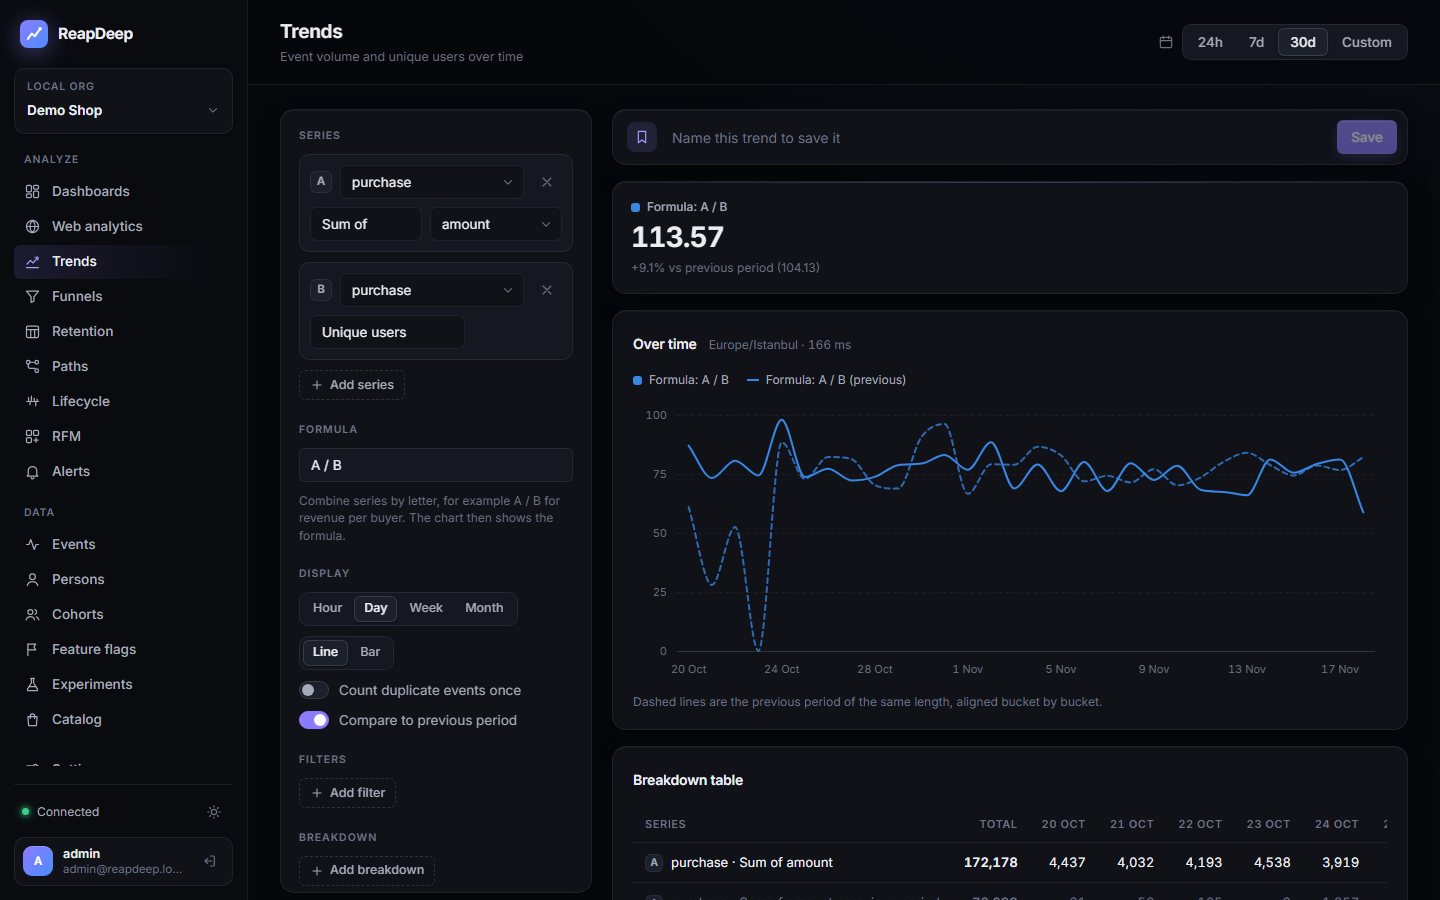
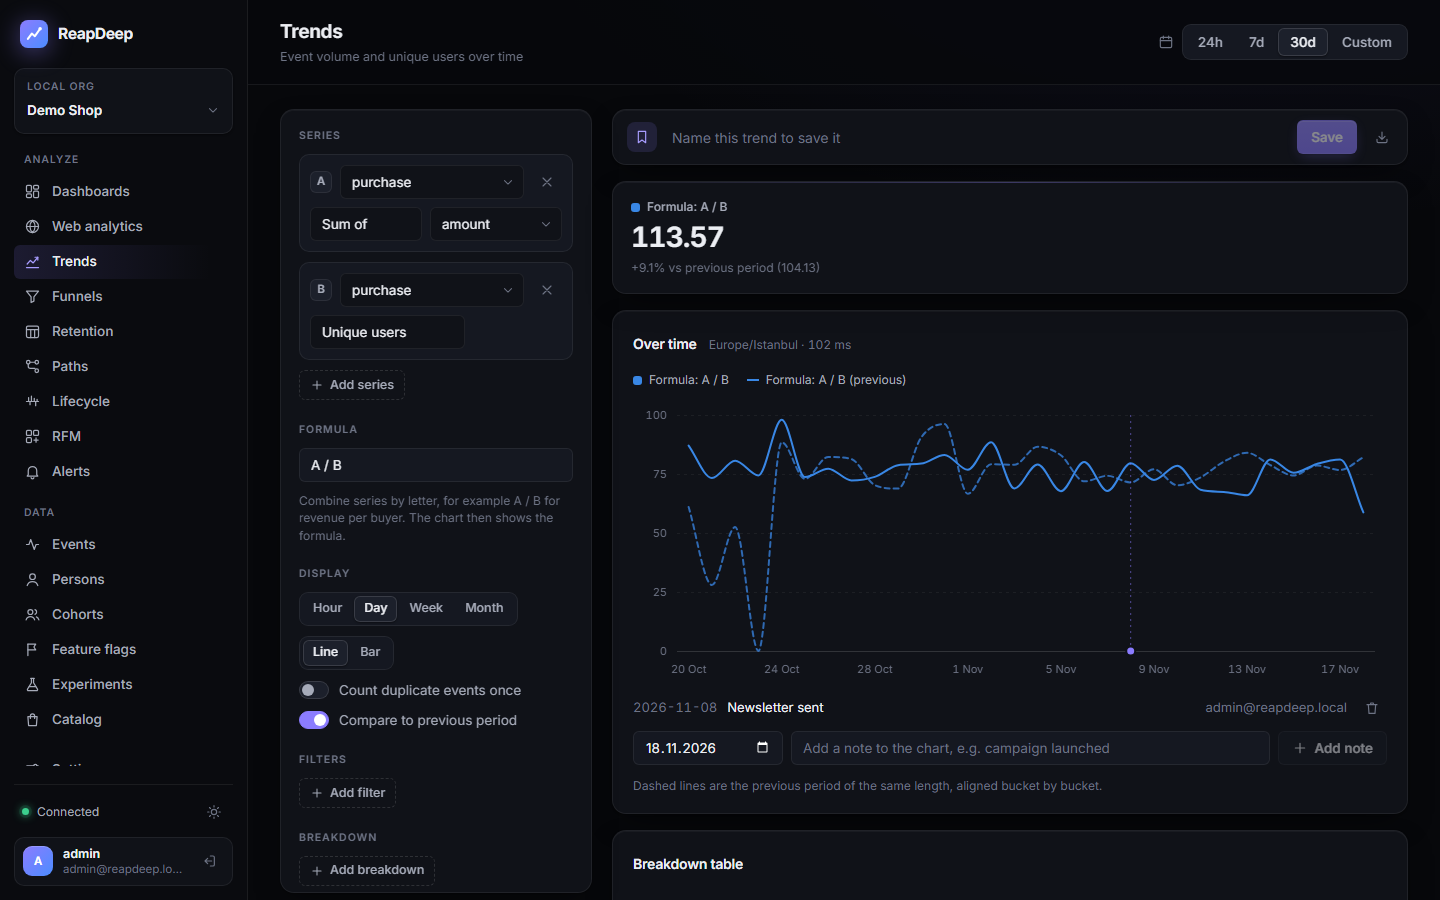
Refresh the trends screenshot and seed a demo chart note and action

diff --git a/README.md b/README.md
@@ -188,7 +188,7 @@ The Web analytics page (`POST /api/v1/query/web`) is built from `$pageview` even
 
 ### Trend metrics and formulas
 
-![Revenue per buyer with the previous period](docs/images/trends.png)
+![Revenue per buyer with the previous period and a chart note on the day a newsletter was sent](docs/images/trends.png)
 
 A trend series counts events, counts unique persons, or aggregates a numeric event property (sum, average, median, 90th percentile, minimum, maximum), for example the daily sum of `amount` on `purchase`. Series are named A, B, C... and a formula combines them with `+ - * /` and parentheses: `A / B` with A = sum of `amount` and B = unique buyers is revenue per buyer. Formulas are evaluated per bucket and on the period totals (so unique-user totals stay correct), per breakdown value, and division by zero gives 0. "Compare to previous period" runs every series over the preceding range of the same length and draws it as a dashed line; the tiles show the change in percent.
 
